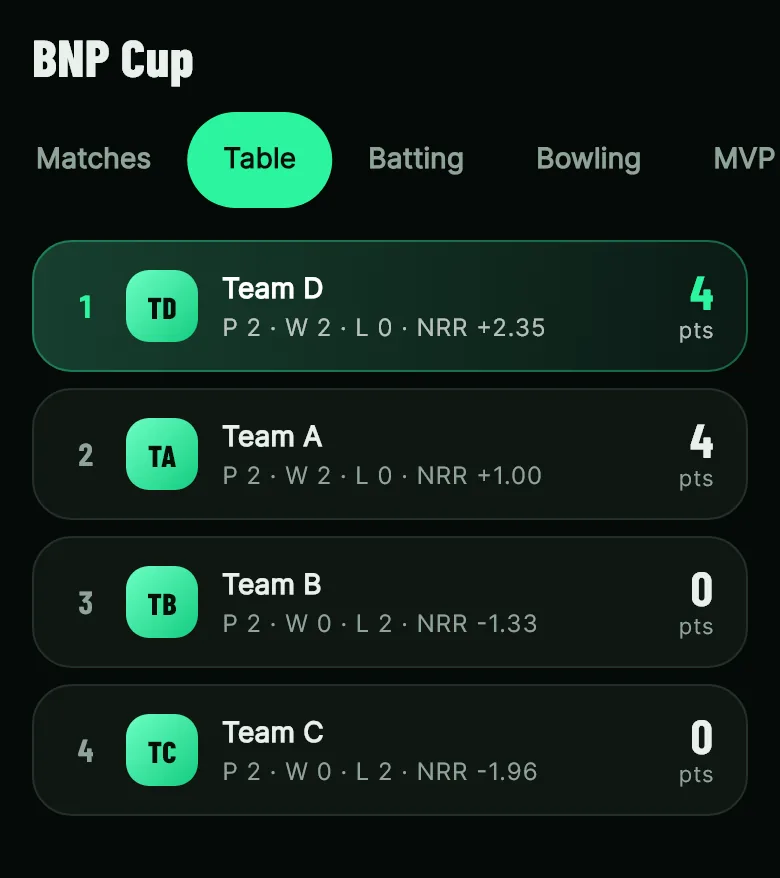
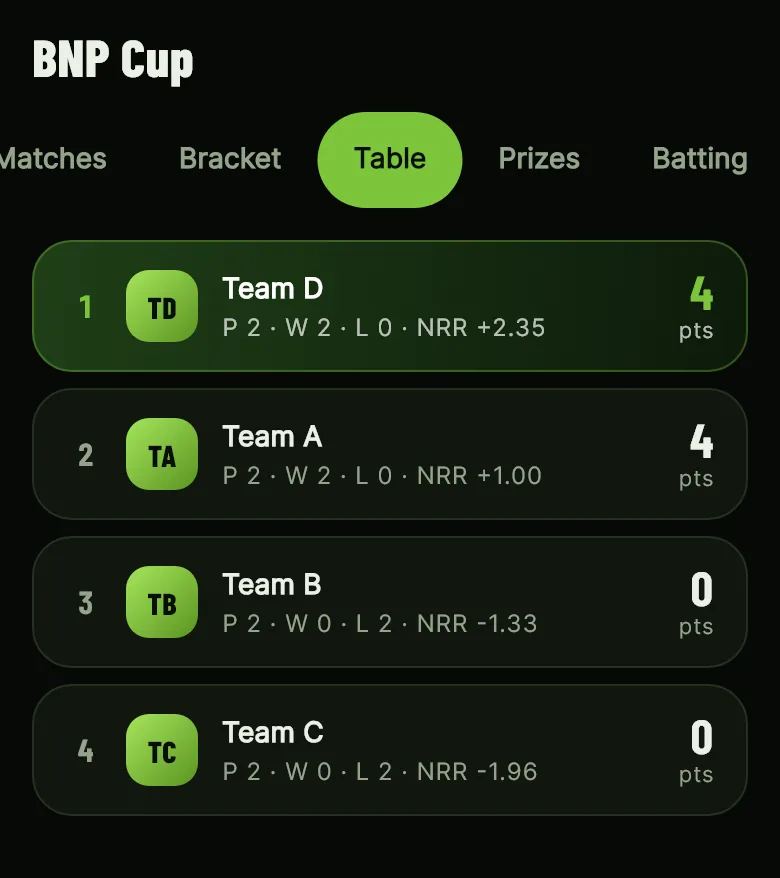
Use the Bits N Pixs green as the accent, in the app and on the website
The new logo is a ball in the company green, but the app around it was
still mint neon on teal-tinted night, so the two looked like different
brands. The accent is now the brand green, a shade brighter than the logo's
so it carries on night, with the dark surfaces warmed toward it and a deep
brand green for text in the light theme. The website's colours, its screens
and the link preview follow. The owner approved a preview of every screen
in both themes before this change.

Scoring colours and chart series are unchanged. The charts pass the dataviz
check on the new card surfaces, and every text pair stays above 4.5:1.
Analyze clean, 312 app tests pass, debug and release builds OK.

diff --git a/app/lib/theme/app_theme.dart b/app/lib/theme/app_theme.dart
@@ -4,20 +4,22 @@ import 'package:flutter/material.dart';
 import 'package:flutter/services.dart';
 import 'package:google_fonts/google_fonts.dart';
 
-/// Brand palette: a floodlit night pitch with a neon green accent. Scoring
+/// Brand palette: a floodlit night pitch with the Bits N Pixs green as the
+/// accent (the field is still called neon). Scoring
 /// colours are fixed across light and dark themes so a "4" always looks like
 /// a 4.
 abstract final class AppColors {
   /// Floodlit night: hero cards in both themes, and the dark theme's base.
-  static const night = Color(0xFF07100C);
-  static const nightRaised = Color(0xFF173F2F);
+  static const night = Color(0xFF081008);
+  static const nightRaised = Color(0xFF1F3F17);
 
-  /// Neon pitch green: the accent on night and the fill of primary actions.
-  static const neon = Color(0xFF2CF59E);
-  static const neonDeep = Color(0xFF14CC80);
+  /// The brand green, a shade brighter than the logo's so it carries on night:
+  /// the accent on night and the fill of primary actions.
+  static const neon = Color(0xFF7DC43A);
+  static const neonDeep = Color(0xFF5A9420);
 
   /// Green for text and icons on light surfaces, where neon is too faint.
-  static const turf = Color(0xFF007A4D);
+  static const turf = Color(0xFF3F7A14);
 
   /// Bits N Pixs' green, the "n" of the company logo. Only the BNP Scorer
   /// logo uses it (`tool/generate_app_icon_test.dart`); the app itself stays
@@ -43,14 +45,14 @@ abstract final class AppColors {
   static const heroGradient = LinearGradient(
     begin: Alignment.topLeft,
     end: Alignment.bottomRight,
-    colors: [nightRaised, Color(0xFF0B1A14)],
+    colors: [nightRaised, Color(0xFF0D1A0B)],
   );
 
   /// Fill of the big call-to-action buttons.
   static const neonGradient = LinearGradient(
     begin: Alignment.topLeft,
     end: Alignment.bottomRight,
-    colors: [Color(0xFF6BFFC2), neonDeep],
+    colors: [Color(0xFFA6E55C), neonDeep],
   );
 
   /// A soft coloured glow under a raised element.
@@ -134,19 +136,19 @@ abstract final class AppTheme {
     final scheme = ColorScheme.fromSeed(seedColor: AppColors.neonDeep, brightness: brightness).copyWith(
       primary: isLight ? AppColors.turf : AppColors.neon,
       onPrimary: isLight ? Colors.white : AppColors.night,
-      primaryContainer: isLight ? const Color(0xFFC6F6DE) : const Color(0xFF0F3D2A),
-      onPrimaryContainer: isLight ? const Color(0xFF00391F) : AppColors.neon,
-      secondaryContainer: isLight ? const Color(0xFFDDEEE5) : const Color(0xFF1A2A22),
-      onSecondaryContainer: isLight ? const Color(0xFF0A1A12) : const Color(0xFFDDF7EA),
-      surface: isLight ? const Color(0xFFEEF3F0) : const Color(0xFF060A08),
-      onSurface: isLight ? const Color(0xFF0A1A12) : const Color(0xFFE8F1EC),
-      onSurfaceVariant: isLight ? const Color(0xFF4F6157) : const Color(0xFF8EA398),
-      surfaceContainerLowest: isLight ? Colors.white : const Color(0xFF0F1612),
-      surfaceContainerLow: isLight ? const Color(0xFFF8FBF9) : const Color(0xFF131B16),
-      surfaceContainer: isLight ? const Color(0xFFE3EBE6) : const Color(0xFF18221C),
-      surfaceContainerHigh: isLight ? const Color(0xFFD8E2DC) : const Color(0xFF1F2A24),
-      outline: isLight ? const Color(0xFF8A9A91) : const Color(0xFF3A4A41),
-      outlineVariant: isLight ? const Color(0xFFD2DDD6) : const Color(0xFF223029),
+      primaryContainer: isLight ? const Color(0xFFDDF2C4) : const Color(0xFF203D14),
+      onPrimaryContainer: isLight ? const Color(0xFF1E3A08) : AppColors.neon,
+      secondaryContainer: isLight ? const Color(0xFFE3EDDA) : const Color(0xFF1E2A1A),
+      onSecondaryContainer: isLight ? const Color(0xFF121A0A) : const Color(0xFFE6F5D8),
+      surface: isLight ? const Color(0xFFF0F3EC) : const Color(0xFF070A06),
+      onSurface: isLight ? const Color(0xFF121A0C) : const Color(0xFFEAF1E6),
+      onSurfaceVariant: isLight ? const Color(0xFF56614C) : const Color(0xFF95A38C),
+      surfaceContainerLowest: isLight ? Colors.white : const Color(0xFF10160E),
+      surfaceContainerLow: isLight ? const Color(0xFFF8FBF6) : const Color(0xFF141B11),
+      surfaceContainer: isLight ? const Color(0xFFE5EBDF) : const Color(0xFF192217),
+      surfaceContainerHigh: isLight ? const Color(0xFFDAE2D3) : const Color(0xFF202A1D),
+      outline: isLight ? const Color(0xFF8E9A85) : const Color(0xFF3E4A37),
+      outlineVariant: isLight ? const Color(0xFFD4DDCC) : const Color(0xFF253021),
       error: AppColors.wicket,
     );
 

diff --git a/site/home.css b/site/home.css
@@ -3,20 +3,20 @@
    appear only where they mean what they mean in the app. */
 :root {
   color-scheme: dark;
-  --night: #07100c;
-  --pitch: #173f2f;
-  --pitch-deep: #0b1a14;
-  --surface: #0f1612;
-  --raised: #18221c;
-  --line: #24312a;
-  --chalk: #e8f1ec;
-  --muted: #9db2a6;
-  --neon: #2cf59e;
+  --night: #081008;
+  --pitch: #1f3f17;
+  --pitch-deep: #0d1a0b;
+  --surface: #10160e;
+  --raised: #192217;
+  --line: #26311f;
+  --chalk: #eaf1e6;
+  --muted: #a3b29a;
+  --neon: #7dc43a;
   --four: #ffb21e;
   --six: #7c4dff;
   --wicket: #ff4d5e;
   --wide: #1c72d8;
-  --dot: #2a3530;
+  --dot: #2c3528;
   --display: "Barlow Condensed", "Arial Narrow", sans-serif;
   --text: "Inter", system-ui, -apple-system, "Segoe UI", Roboto, sans-serif;
 }
@@ -104,8 +104,8 @@ a { color: var(--neon); }
   inset: -120px -20vw auto;
   height: 680px;
   background:
-    radial-gradient(ellipse 50% 60% at 15% 20%, rgba(44, 245, 158, 0.13), transparent 70%),
-    radial-gradient(ellipse 40% 50% at 85% 10%, rgba(44, 245, 158, 0.08), transparent 70%);
+    radial-gradient(ellipse 50% 60% at 15% 20%, rgba(125, 196, 58, 0.13), transparent 70%),
+    radial-gradient(ellipse 40% 50% at 85% 10%, rgba(125, 196, 58, 0.08), transparent 70%);
   pointer-events: none;
   z-index: -1;
 }
@@ -120,7 +120,7 @@ a { color: var(--neon); }
   margin: 22px 0 0;
   max-width: 34em;
   font-size: 19px;
-  color: #c9dbd1;
+  color: #d0dcc8;
 }
 
 .actions {
@@ -144,10 +144,10 @@ a { color: var(--neon); }
 .button.primary {
   background: var(--neon);
   color: var(--night);
-  box-shadow: 0 10px 30px -10px rgba(44, 245, 158, 0.6);
+  box-shadow: 0 10px 30px -10px rgba(125, 196, 58, 0.6);
 }
 
-.button.primary:hover { background: #5cf8b4; }
+.button.primary:hover { background: #a6e55c; }
 
 .button.ghost {
   color: var(--chalk);
@@ -164,7 +164,7 @@ a { color: var(--neon); }
   padding: 20px 22px 18px;
   border-radius: 24px;
   background: linear-gradient(135deg, var(--pitch), var(--pitch-deep));
-  border: 1px solid rgba(44, 245, 158, 0.25);
+  border: 1px solid rgba(125, 196, 58, 0.25);
 }
 
 .scoreboard .top {
@@ -174,7 +174,7 @@ a { color: var(--neon); }
   gap: 12px;
 }
 
-.scoreboard .team { font-weight: 600; color: #cfe3d8; }
+.scoreboard .team { font-weight: 600; color: #d8e6cf; }
 
 .live {
   display: inline-flex;
@@ -235,7 +235,7 @@ a { color: var(--neon); }
   animation: bowl 0.4s cubic-bezier(0.2, 1.4, 0.4, 1) both;
 }
 
-.ball.dot { color: #8ea398; }
+.ball.dot { color: #95a38c; }
 .ball.wide { background: var(--wide); }
 .ball.wicket { background: var(--wicket); }
 .ball.six { background: var(--six); }
@@ -258,9 +258,9 @@ a { color: var(--neon); }
   width: min(300px, 100%);
   padding: 9px;
   border-radius: 40px;
-  background: #1b2620;
-  border: 1px solid #2c3a33;
-  box-shadow: 0 40px 80px -30px rgba(0, 0, 0, 0.8), 0 0 60px -20px rgba(44, 245, 158, 0.25);
+  background: #1c261a;
+  border: 1px solid #2f3a2a;
+  box-shadow: 0 40px 80px -30px rgba(0, 0, 0, 0.8), 0 0 60px -20px rgba(125, 196, 58, 0.25);
 }
 
 .phone img { border-radius: 31px; }
@@ -330,7 +330,7 @@ h2 {
   font: 800 clamp(30px, 4vw, 40px)/1.05 var(--display);
 }
 
-.stage .intro { margin: 10px 0 18px; color: #c9dbd1; font-size: 18px; max-width: 32em; }
+.stage .intro { margin: 10px 0 18px; color: #d0dcc8; font-size: 18px; max-width: 32em; }
 
 .points { margin: 0; padding: 0; list-style: none; display: grid; gap: 10px; }
 
@@ -366,7 +366,7 @@ h2 {
   width: min(300px, 100%);
   border-radius: 28px;
   overflow: hidden;
-  border: 1px solid #2c3a33;
+  border: 1px solid #2f3a2a;
   box-shadow: 0 40px 80px -30px rgba(0, 0, 0, 0.8);
 }
 
@@ -406,12 +406,12 @@ h2 {
   border-radius: 32px;
   padding: clamp(28px, 5vw, 56px);
   background: linear-gradient(135deg, var(--pitch), var(--pitch-deep));
-  border: 1px solid rgba(44, 245, 158, 0.2);
+  border: 1px solid rgba(125, 196, 58, 0.2);
 }
 
 .privacy h2 { max-width: 12em; }
 
-.privacy .button.ghost { border-color: rgba(232, 241, 236, 0.35); }
+.privacy .button.ghost { border-color: rgba(234, 241, 230, 0.35); }
 
 .facts {
   display: grid;
@@ -428,7 +428,7 @@ h2 {
   color: var(--neon);
 }
 
-.facts span { color: #c9dbd1; }
+.facts span { color: #d0dcc8; }
 
 @media (max-width: 700px) {
   .facts { grid-template-columns: 1fr; }

diff --git a/site/style.css b/site/style.css
@@ -2,35 +2,35 @@
    light or dark. Fonts come from this site (fonts.css), so a visit sends
    nothing to a font server. */
 :root {
-  --bg: #eef3f0;
+  --bg: #f0f3ec;
   --surface: #ffffff;
-  --text: #0a1a12;
-  --muted: #4f6157;
-  --line: #d8e2dc;
-  --accent: #007a4d;
-  --hero: linear-gradient(135deg, #173f2f, #0b1a14);
-  --neon: #2cf59e;
-  --night: #07100c;
+  --text: #121a0c;
+  --muted: #56614c;
+  --line: #dae2d3;
+  --accent: #3f7a14;
+  --hero: linear-gradient(135deg, #1f3f17, #0d1a0b);
+  --neon: #7dc43a;
+  --night: #081008;
 }
 
 @media (prefers-color-scheme: dark) {
   :root:not([data-theme="light"]) {
-    --bg: #060a08;
-    --surface: #0f1612;
-    --text: #e8f1ec;
-    --muted: #8ea398;
-    --line: #1f2a24;
-    --accent: #2cf59e;
+    --bg: #070a06;
+    --surface: #10160e;
+    --text: #eaf1e6;
+    --muted: #95a38c;
+    --line: #202a1d;
+    --accent: #7dc43a;
   }
 }
 
 :root[data-theme="dark"] {
-  --bg: #060a08;
-  --surface: #0f1612;
-  --text: #e8f1ec;
-  --muted: #8ea398;
-  --line: #1f2a24;
-  --accent: #2cf59e;
+  --bg: #070a06;
+  --surface: #10160e;
+  --text: #eaf1e6;
+  --muted: #95a38c;
+  --line: #202a1d;
+  --accent: #7dc43a;
 }
 
 * { box-sizing: border-box; }
@@ -68,7 +68,7 @@ main {
   font: italic 800 clamp(40px, 9vw, 60px)/1 "Barlow Condensed", "Arial Narrow", sans-serif;
 }
 
-.hero p { margin: 0; color: #cfe3d8; }
+.hero p { margin: 0; color: #d8e6cf; }
 
 h2 {
   font: 800 26px/1.1 "Barlow Condensed", "Arial Narrow", sans-serif;

diff --git a/site/privacy.html b/site/privacy.html
@@ -5,7 +5,7 @@
   <meta name="viewport" content="width=device-width, initial-scale=1">
   <title>BNP Scorer Privacy</title>
   <meta name="description" content="How the BNP Scorer cricket scoring app handles your data: on your phone by default, and public only for matches you publish after signing in.">
-  <meta name="theme-color" content="#07100c">
+  <meta name="theme-color" content="#081008">
   <link rel="icon" href="img/icon-64.png" type="image/png">
   <link rel="apple-touch-icon" href="img/icon-512.png">
   <meta property="og:title" content="BNP Scorer privacy policy">

diff --git a/site/index.html b/site/index.html
@@ -5,7 +5,7 @@
   <meta name="viewport" content="width=device-width, initial-scale=1">
   <title>BNP Scorer</title>
   <meta name="description" content="Free ball-by-ball cricket scoring for local, club and gully matches. Works offline, and lets anyone follow your matches live if you sign in. By Bits N Pixs.">
-  <meta name="theme-color" content="#07100c">
+  <meta name="theme-color" content="#081008">
   <link rel="icon" href="img/icon-64.png" type="image/png">
   <link rel="apple-touch-icon" href="img/icon-512.png">
   <meta property="og:type" content="website">

diff --git a/app/tool/build_site_assets.py b/app/tool/build_site_assets.py
@@ -25,11 +25,11 @@ SHOTS = APP / 'build' / 'screenshots'
 FONTS = APP / 'assets' / 'google_fonts'
 SITE = APP.parent / 'site'
 
-NIGHT = (7, 16, 12)
-PITCH = (23, 63, 47)
-NEON = (44, 245, 158)
-CHALK = (232, 241, 236)
-MUTED = (142, 163, 152)
+NIGHT = (8, 16, 8)
+PITCH = (31, 63, 23)
+NEON = (125, 196, 58)
+CHALK = (234, 241, 230)
+MUTED = (149, 163, 140)
 
 # Screens and how much of their height to keep (the table ends early).
 SCREENS = {'scoring': 1.0, 'home': 1.0, 'team': 1.0, 'result': 1.0, 'scorecard': 1.0, 'charts': 1.0, 'table': 0.52}

diff --git a/AGENTS.md b/AGENTS.md
@@ -88,6 +88,11 @@ developer continuing **BNP Scorer**. Read this file fully before changing code.
 - `test-team.xlsx` in the repo root holds real names. The owner wants it left out
   of git. The same names are in `app/lib/data/demo_data.dart`, which is tracked;
   the owner is fine with them being public (2026-11-17).
+- **Brand green (2026-11-18):** the app and website accent moved from mint
+  neon to the Bits N Pixs green, with the night surfaces warmed to match, after
+  the owner approved a preview of every screen in both themes. Chart colours
+  passed the dataviz check on the new card surfaces. Website screens and the
+  link preview were re-rendered.
 - Logo, app icon and splash (2026-11-18): a cricket ball in the Bits N Pixs
   green (`AppColors.brandGreen`) with the company logo's thin b and p across
   it, after the owner's sketch `bnp-logo-idea.png` (repo root, untracked,
@@ -200,8 +205,9 @@ developer continuing **BNP Scorer**. Read this file fully before changing code.
   Back on a tab other than Matches returns to Matches. Add go_router only with
   deep links (shared scorecards).
 - **Theme:** colours come from `Theme.of(context).colorScheme` or `AppColors`.
-  Neon (`AppColors.neon`) is a fill and an accent on dark surfaces. Text on light
-  surfaces uses `colorScheme.primary`, which is deep green in the light theme.
+  The accent (`AppColors.neon`, the brand green since 2026-11-18; the name is
+  kept) is a fill and an accent on dark surfaces. Text on light surfaces uses
+  `colorScheme.primary`, which is deep brand green in the light theme.
   Hero cards stay dark in both themes.
 - **No code generation in v0.1** (no freezed, json_serializable, Drift or
   riverpod_generator). Models are hand-written and immutable.

diff --git a/docs/ARCHITECTURE.md b/docs/ARCHITECTURE.md
@@ -438,13 +438,16 @@ from `state.phase` / `state.current` → record saved → home list invalidated.
 - Light, dark, or follow the phone, chosen in Settings and stored as
   `bnp_scorer.themeMode` (`AppSettings`, `themeModeProvider`).
 - **Brand:**
-  - night `#07100C`, with the hero gradient `#173F2F` to `#0B1A14`. Hero cards
+  - night `#081008`, with the hero gradient `#1F3F17` to `#0D1A0B`. Hero cards
     (score, champions, leaders, share card) stay dark in both themes, like a
     floodlit scoreboard;
-  - neon green `#2CF59E` as the accent and the fill of primary buttons, always
-    with night text;
-  - turf green `#007A4D` as `colorScheme.primary` in the light theme, for text
-    and icons on light surfaces, where neon is too faint;
+  - the Bits N Pixs green as the accent and the fill of primary buttons, always
+    with night text: `#7DC43A` (`AppColors.neon`, the name kept from the
+    earlier mint), a shade brighter than the logo's `#6FAE29`
+    (`AppColors.brandGreen`) so it carries on night;
+  - deep brand green `#3F7A14` (`AppColors.turf`) as `colorScheme.primary` in
+    the light theme, for text and icons on light surfaces, where the accent is
+    too faint;
   - cards have a hairline edge (`cardShape`) for a glassy look in the dark.
 - **Outcome colours** (the same in both themes):
   - four: amber `#FFB21E`;

diff --git a/CHANGELOG.md b/CHANGELOG.md
@@ -3,6 +3,12 @@
 ## Unreleased
 
 ### Changed
+- The accent is the Bits N Pixs green instead of mint neon, in the app and on
+  the website, and the night surfaces lean toward that green so the hero cards
+  match the logo. The light theme uses a deep brand green for text and icons.
+  Scoring colours (4, 6, wicket, extras) and the chart series are unchanged;
+  the charts passed the colour check on the new card surfaces, and every text
+  pair stays above 4.5:1. The website screens and link preview were redrawn.
 - A logo of its own, after the owner's sketch: a cricket ball in the Bits N
   Pixs green, lit from the top left with a stitched seam, and the company
   logo's thin geometric b and p drawn across it, the p's stem running out of

diff --git a/README.md b/README.md
@@ -23,7 +23,7 @@ Offline-first: scoring works with no network and every match is stored on the de
 - **Match setup** in one screen: team names, players (type names or "Fill to 11"),
   overs (presets or stepper), toss, venue, and house rules (wide/no-ball run,
   free hit, last man stands, max overs per bowler, shot direction).
-- **Look:** a night-pitch and neon-green design with light and dark themes. Pick
+- **Look:** a night pitch in the Bits N Pixs green, with light and dark themes. Pick
   System, Light or Dark in Settings (top of Home). A bottom bar holds Matches,
   Tournaments, Stats and Teams, with a big "+" to start a match from anywhere.
 - **Teams:** edit a squad from the Teams tab: rename players, set roles, and
